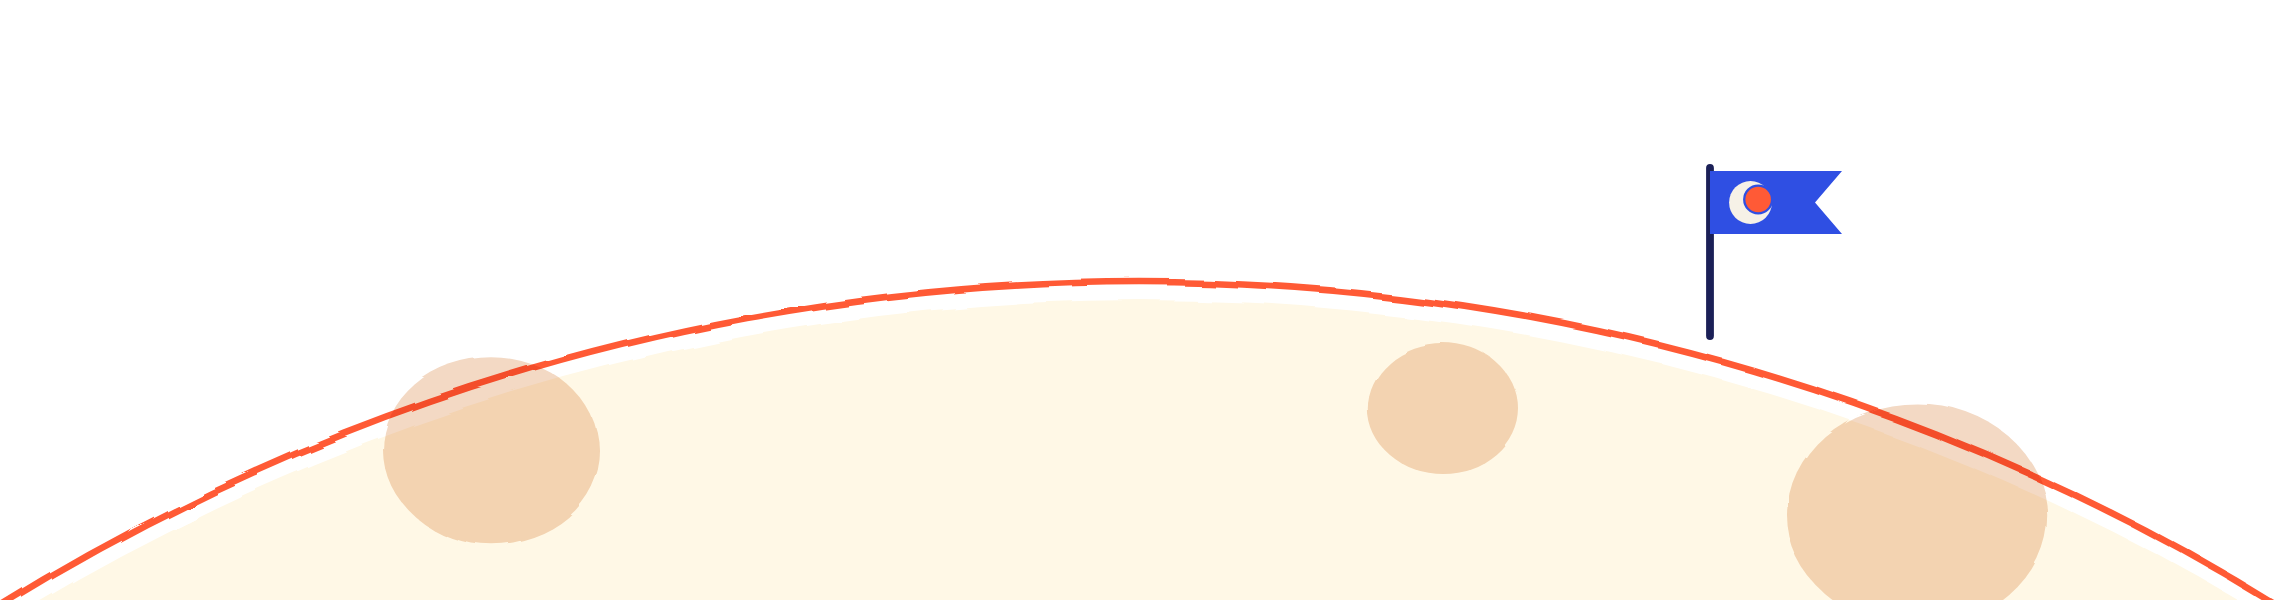
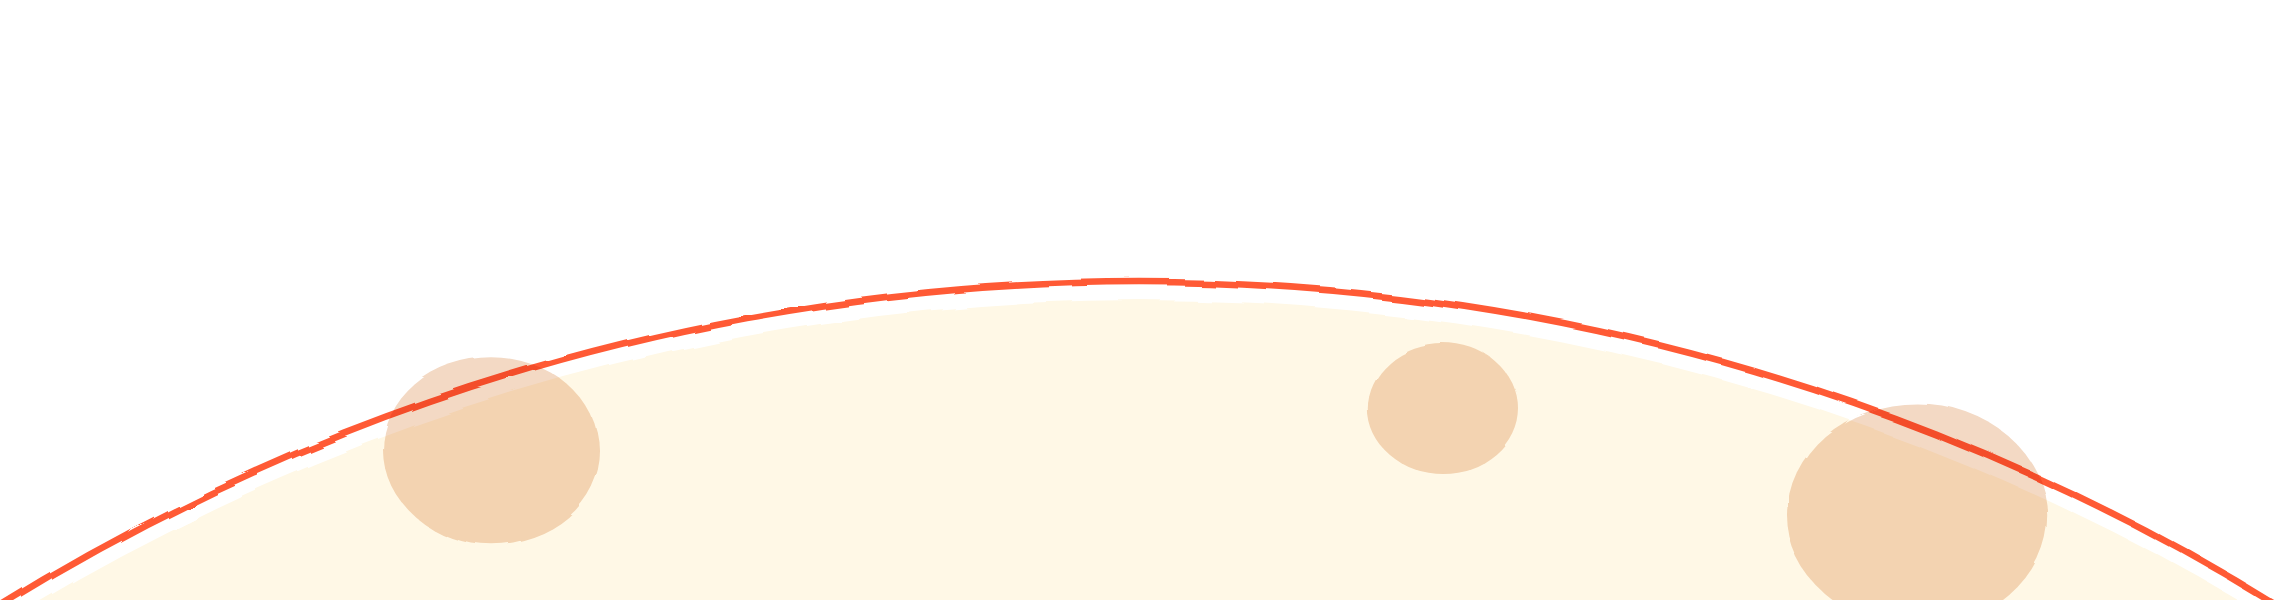
Correct layered onboarding artwork and align entry motion with the prototype

Changed region(s): [[0.7474, 0.27, 0.8096, 0.54]]

diff --git a/native/Sources/Orbit/Onboarding/OrbitOnboardingWindowController.swift b/native/Sources/Orbit/Onboarding/OrbitOnboardingWindowController.swift
@@ -159,6 +159,11 @@ final class OrbitOnboardingWindowController: NSWindowController {
             window.makeKeyAndOrderFront(nil)
         }
         if flow.step == .welcome { welcome.play() }
+        if intro == nil, flow.step == .welcome || flow.step == .finish {
+            let stage: NSView = flow.step == .welcome ? welcome : finishStage
+            OrbitOnboardingMotion.animate(stage.layer, key: "opacity", from: 0, to: 1, duration: 0.5)
+            OrbitOnboardingMotion.animate(stage.layer, key: "transform.translation.x", from: 79, to: 0, duration: 0.5)
+        }
         if let cover = OrbitOnboardingStartup.cover, cover !== self {
             cover.close()
             OrbitOnboardingStartup.cover = nil
@@ -258,12 +263,17 @@ final class OrbitOnboardingWindowController: NSWindowController {
         services.persist(flow.record(.started))
         if flow.step == .welcome {
             welcomeTransitions += 1
-            OrbitOnboardingMotion.animate(card.layer, key: "opacity", from: 1, to: 0, duration: 0.55, outgoing: true)
-            OrbitOnboardingMotion.animate(card.layer, key: "transform.translation.y", from: 0, to: 40, duration: 0.55, outgoing: true)
-            DispatchQueue.main.asyncAfter(deadline: .now() + (OrbitMotionPreferences.prefersReducedMotion ? 0.25 : 0.55)) { [weak self] in
+            render(direction: .backward, animated: false)
+            welcome.play()
+            card.isHidden = false
+            OrbitOnboardingMotion.animate(card.layer, key: "opacity", from: 1, to: 0, duration: 0.3, outgoing: true)
+            OrbitOnboardingMotion.animate(card.layer, key: "transform.translation.x", from: 0, to: 79, duration: 0.3, outgoing: true)
+            OrbitOnboardingMotion.animate(welcome.layer, key: "opacity", from: 0, to: 1, duration: 0.5, delay: 0.28)
+            OrbitOnboardingMotion.animate(welcome.layer, key: "transform.translation.x", from: -79, to: 0, duration: 0.5, delay: 0.28)
+            DispatchQueue.main.asyncAfter(deadline: .now() + (OrbitMotionPreferences.prefersReducedMotion ? 0.25 : 0.8)) { [weak self] in
                 guard let self else { return }
+                card.isHidden = true
                 card.layer?.removeAllAnimations()
-                render(direction: .backward, animated: false); welcome.play()
                 welcomeTransitions -= 1
             }
         } else { render(direction: .backward, animated: true) }

diff --git a/native/Sources/Orbit/Onboarding/OrbitOnboardingSpaceArt.swift b/native/Sources/Orbit/Onboarding/OrbitOnboardingSpaceArt.swift
@@ -116,21 +116,29 @@ final class OrbitOnboardingSyncArt: OrbitOnboardingSpaceArt {
 final class OrbitOnboardingHorizonArt: OrbitOnboardingSpaceArt {
     private let moon = OrbitOnboardingIllustrationView("onboarding-horizon-moon")
     private let flag = OrbitOnboardingIllustrationView("onboarding-horizon-flag")
+    private let flagRise = NSView()
     private let satellite = OrbitOnboardingIllustrationView("onboarding-horizon-satellite")
     private let stars = (0..<5).map { OrbitOnboardingIllustrationView("onboarding-horizon-star-" + String($0)) }
     private static let centers = [CGPoint(x: 140, y: 60), CGPoint(x: 660, y: 30), CGPoint(x: 90, y: 130),
                                   CGPoint(x: 470, y: 40), CGPoint(x: 300, y: 70)]
     override init(frame: NSRect) {
         super.init(frame: frame)
-        for view in [moon, flag, satellite] + stars { addSubview(view) }
+        flagRise.wantsLayer = true
+        flagRise.addSubview(flag)
+        for view in [moon, flagRise, satellite] + stars { addSubview(view) }
     }
     required init?(coder: NSCoder) { nil }
-    override func layout() { super.layout(); for view in [moon, flag, satellite] + stars { view.frame = bounds } }
+    override func layout() {
+        super.layout()
+        for view in [moon, flagRise, satellite] + stars { view.frame = bounds }
+        flag.frame = flagRise.bounds
+    }
     func play() {
         layoutSubtreeIfNeeded()
         let scale = min(bounds.width / 760, bounds.height / 200)
         let offset = CGPoint(x: (bounds.width - 760 * scale) / 2, y: (bounds.height - 200 * scale) / 2)
         OrbitOnboardingMotion.animate(moon.layer, key: "transform.translation.y", from: 170 * scale, to: 0, duration: 1.3, delay: 0.2)
+        OrbitOnboardingMotion.animate(flagRise.layer, key: "transform.translation.y", from: 170 * scale, to: 0, duration: 1.3, delay: 0.2)
         func pivot(_ point: CGPoint, in view: NSView) -> CGPoint {
             let top = point.y * scale + offset.y
             return CGPoint(x: point.x * scale + offset.x, y: view.isFlipped ? top : bounds.height - top)

diff --git a/native/Sources/Orbit/Onboarding/OrbitOnboardingFavouritesView.swift b/native/Sources/Orbit/Onboarding/OrbitOnboardingFavouritesView.swift
@@ -11,6 +11,7 @@ final class OrbitOnboardingFavouritesView: NSView {
     init(sites: [BrowserOnboardingFavourite]) {
         super.init(frame: NSRect(x: 0, y: 0, width: 590, height: 220))
         wantsLayer = true
+        clipsToBounds = false
         pins.wantsLayer = true
         let gradient = CAGradientLayer()
         gradient.frame = pins.bounds
@@ -29,8 +30,10 @@ final class OrbitOnboardingFavouritesView: NSView {
             button.isBordered = false
             button.wantsLayer = true
             button.layer?.cornerRadius = 14
+            button.clipsToBounds = false
+            button.layer?.masksToBounds = false
             button.layer?.backgroundColor = BrandPalette.pageWhite.withAlphaComponent(0.6).cgColor
-            let check = CALayer(); check.frame = CGRect(x: 94.5, y: 8, width: 18, height: 18)
+            let check = CALayer(); check.frame = CGRect(x: button.bounds.width - 12, y: -5, width: 18, height: 18)
             check.cornerRadius = 9
             button.layer?.addSublayer(check); checks.append(check)
             button.imagePosition = .noImage

diff --git a/native/Sources/Orbit/Onboarding/OrbitOnboardingMotion.swift b/native/Sources/Orbit/Onboarding/OrbitOnboardingMotion.swift
@@ -91,7 +91,9 @@ final class OrbitOnboardingMarkView: NSView {
         reveal.values = (0...90).map { i -> NSValue in
             let t = Double(i) / 90 - 1
             let value = 1 + t * t * (2.6 * t + 1.6)
-            var transform = CATransform3DMakeTranslation(center.x, center.y, 0)
+            let revealProgress = min(1, max(0, (delay + Double(i) / 90 - 0.38) / 0.5))
+            let rise = drawBands ? 0 : 32 * pow(1 - revealProgress, 4)
+            var transform = CATransform3DMakeTranslation(center.x, center.y + rise, 0)
             transform = CATransform3DScale(transform, value, value, 1)
             transform = CATransform3DRotate(transform, -.pi * (1 - value), 0, 0, 1)
             transform = CATransform3DTranslate(transform, -center.x, -center.y, 0)

diff --git a/native/Sources/Orbit/Onboarding/OrbitOnboardingWelcome.swift b/native/Sources/Orbit/Onboarding/OrbitOnboardingWelcome.swift
@@ -40,9 +40,10 @@ final class OrbitOnboardingWelcomeView: NSView {
     override var isFlipped: Bool { true }
     func play() {
         mark.land(delay: 0.2, drawBands: false)
-        headline.play(delay: 0.38, stagger: 0.07)
-        OrbitOnboardingMotion.entrance(body, y: 32, duration: 0.5, delay: 0.45)
-        OrbitOnboardingMotion.entrance(button, y: 32, duration: 0.5, delay: 0.52)
+        OrbitOnboardingMotion.animate(mark.layer, key: "opacity", from: 0, to: 1, duration: 0.5, delay: 0.38)
+        headline.play(delay: 0.45, stagger: 0.07)
+        OrbitOnboardingMotion.entrance(body, y: 32, duration: 0.5, delay: 0.52)
+        OrbitOnboardingMotion.entrance(button, y: 32, duration: 0.5, delay: 0.59)
         illustration.play()
     }
 }

diff --git a/native/OrbitChromium/Smoke/OrbitArchiveOptionsScenario.swift b/native/OrbitChromium/Smoke/OrbitArchiveOptionsScenario.swift
@@ -227,6 +227,7 @@ extension OrbitSmokeDriver {
                 for step in OrbitOnboardingFlow.steps {
                     var flow = OrbitOnboardingFlow(step: step, sources: sources, syncAvailability: .available)
                     flow.syncChoice = true
+                    flow.defaultBrowserChoice = true
                     if step == .importSource { flow.select(source: sources[0]) }
                     let target = spaces.first.map { OrbitOnboardingThemeTarget(spaceID: $0.id, profileID: profile, stored: nil, commit: { _ in }, registry: nil) }
                     let onboarding = OrbitOnboardingWindowController(flow: flow, services: .init(), themeTarget: target)

diff --git a/native/Sources/Orbit/Palette/BrowserPaletteView.swift b/native/Sources/Orbit/Palette/BrowserPaletteView.swift
@@ -140,7 +140,7 @@ final class BrowserPaletteView: NSView, NSTextFieldDelegate, NSTableViewDataSour
         panel.setAccessibilityRole(.group)
         panel.setAccessibilityLabel(uiText("Command Bar"))
         panel.addSubview(input)
-        searchIcon.image = OrbitIcon.image(sfName: "magnifyingglass", pointSize: 16, accessibilityDescription: nil)
+        searchIcon.image = Self.sparkleImage
         searchIcon.setAccessibilityElement(false)
         panel.addSubview(searchIcon)
         infoButton.image = OrbitIcon.image(sfName: "info.circle", pointSize: 16, accessibilityDescription: uiText("About suggestions"))
